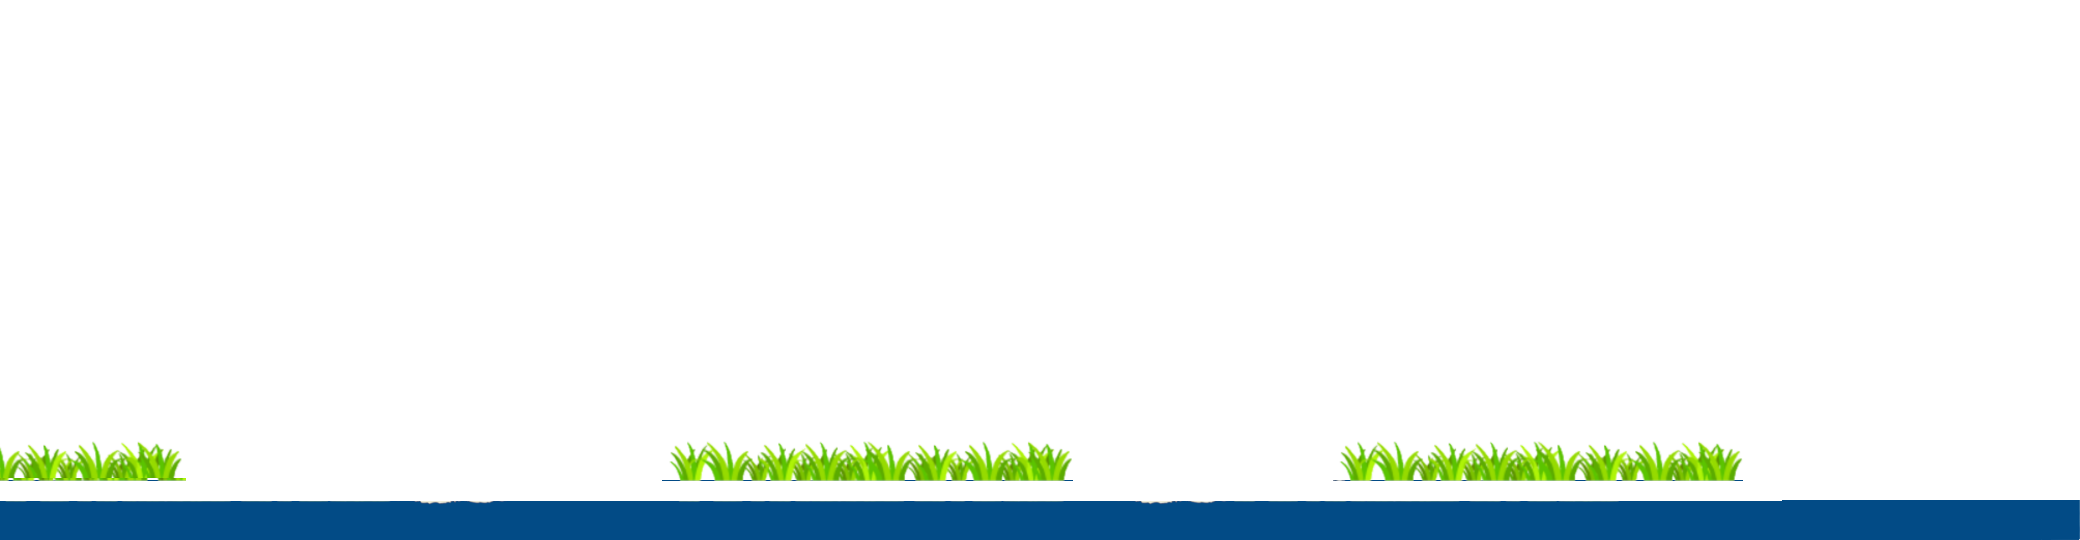
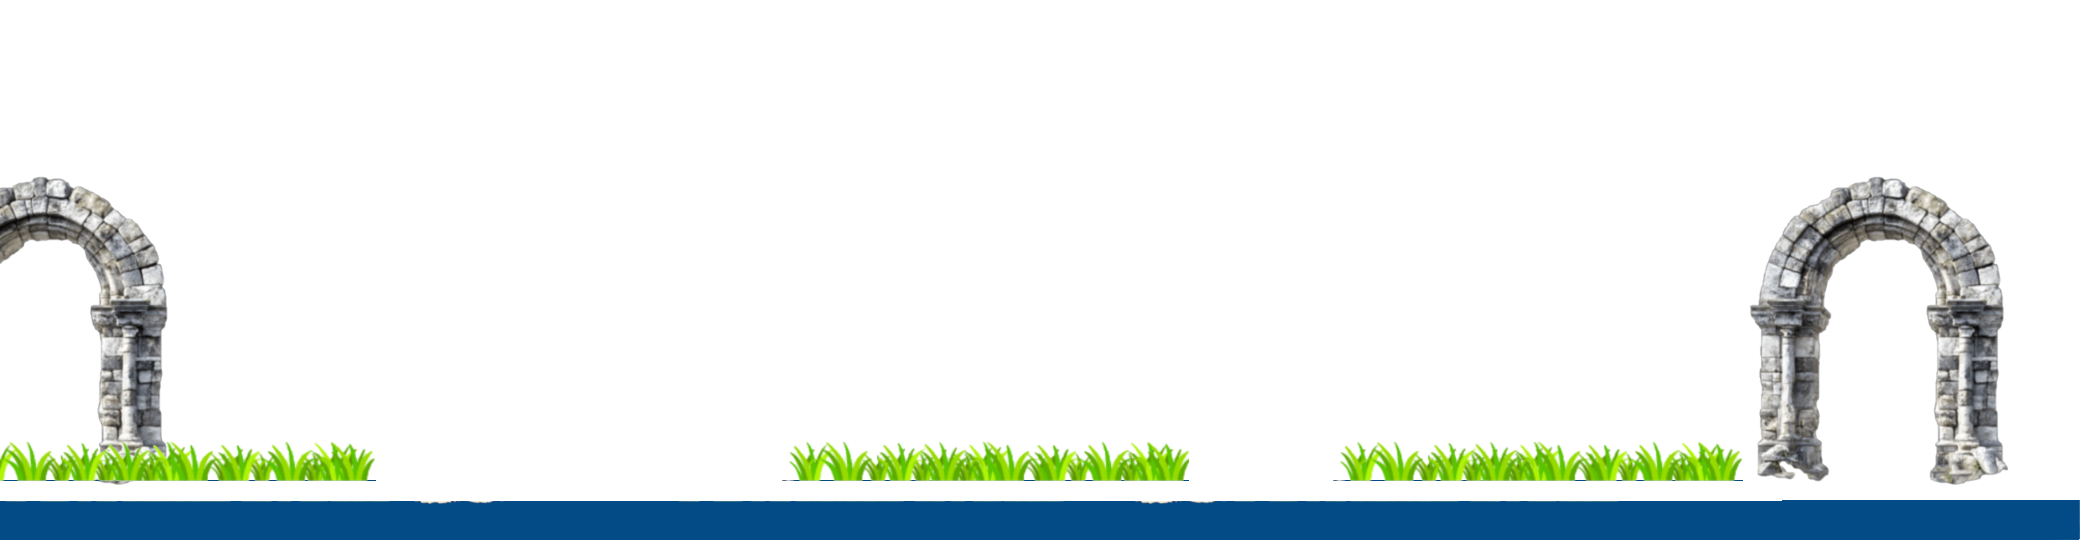
a

Changed region(s): [[0.8438, 0.3259, 0.9688, 0.8889], [0.0, 0.3259, 0.1875, 0.9185], [0.3125, 0.8, 0.5938, 0.8889]]

diff --git a/Jump_Game/js/stage.js b/Jump_Game/js/stage.js
@@ -44,13 +44,12 @@ export const LEVELS = [
 
     enemies: [
       {x:345, y:432, w: 32, h: 32, type: "heal" },
-        { x: 600, y: 350, w: 32, h: 32, type: "heal" },
-  { x: 1200, y: 300, w: 32, h: 32, type: "heal" },
-          { x: 700, y: 150, w: 32, h: 32, type: "live" },
+      { x: 600, y: 350, w: 32, h: 32, type: "heal" },
+      { x: 1200, y: 300, w: 32, h: 32, type: "heal" },
+      { x: 700, y: 150, w: 32, h: 32, type: "live" },
       {x:600, y:446, w:34, h:48, dir:1, speed:1},
       {x:750, y:432, w:34, h:48, dir:-1, speed:1, type:"needle"},
       {x:1000, y:432, w:34, h:48, dir:-1, speed:1, type:"jump"},
-      {x:500, y:132, w:34, h:48, dir:-1, speed:5, type:"thunder"},
       {x:1200, y:300, w:34, h:48, dir:1, speed:1, type:"fly", vy:1},
       {x:1400, y:432, w:34, h:48, type:"jumper"},
       {x:1500, y:432, w:34, h:48, type:"jumper"},
